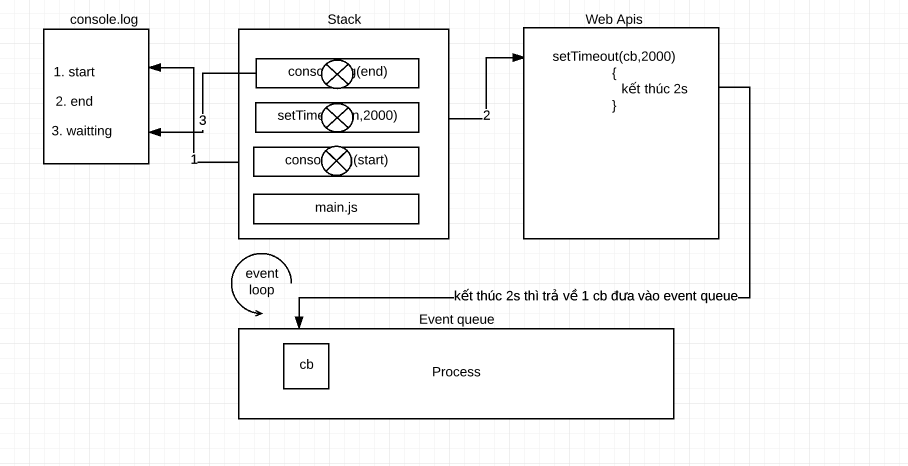
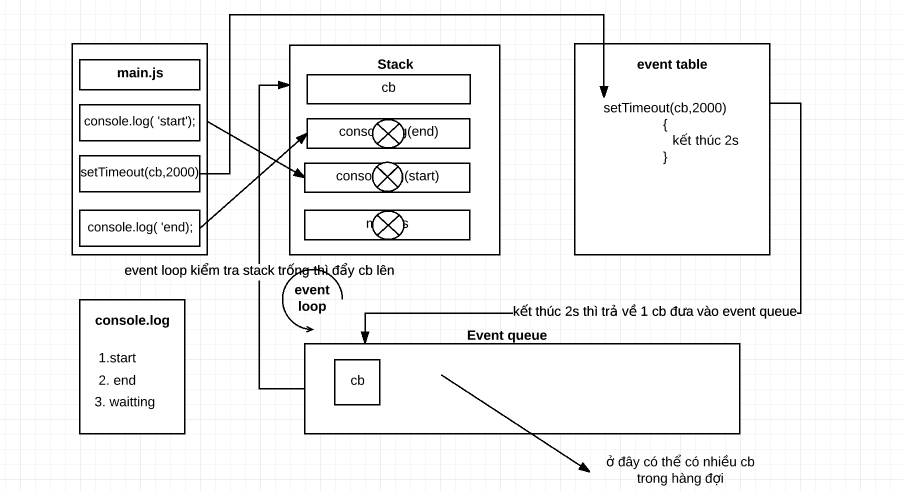
update

diff --git a/README.md b/README.md
@@ -66,9 +66,46 @@ console.log(new Date().toLocaleTimeString()+ ' ' + 'start');
        9:47:20 AM end
        9:47:22 AM waitting...   
 ```
-- Ta thấy kết quả tương tự như ở trên và lý do được giải thích như sau:
+
 * Trạng thái hoạt động
     ![Image](s.png)
+- Nhìn vào sơ đồ ta ta thấy có các thành phần như sau:
+1. Stack: là cấu trúc kiểu ngăn xếp chứa các khối lệnh được chạy
+2. Nơi đăng kí các sự kiện
+3. Event queue là hàng đợi chứa các câu lệnh được trả về sau khi hoàn thành một tác vụ nào đó(như các setTimeout, promise, các sự kiện click ...)
+4. Event loop lặp liên tục kiểm tra xem stack có rỗng không nếu rỗng sẽ đẩy các lệnh dưới event queue lên.
+- Với đoạn code trên được giải thích như sau:
+- Đoạn code trong chương trình chạy tuần tự từ đầu đến cuối
+- Đầu tiên nó gọi hàm main() trong hàm main() gặp câu lệnh 
+    "console.log('start')" với câu lệnh này nó được đưa vào trong stack được lấy ra ngay và thực thi luôn câu lệnh log('start') trong stack lúc này chỉ có hàm main().
+- Tiếp theo nó gặp hàm setTimeout(cb,2000) nhưng hàm này không được đưa vào stack mà được đưa sang event table và trong quá trình chờ kết thúc 2s thì nó gọi luôn câu lệnh tiếp theo là "console.log('end')" lệnh này được đưa vào stack và nó bị lấy ra và thực hiện ngay => log ra màn hình "end"
+- Sau khi kết thúc 2s thì setTimeout(cb,2000) trả về 1 hàm cb và hàm này được đẩy xuống event queue tại đây nó được event loop kiểm tra xem hàng đợi có rỗng không lúc này hàng đợi đang rỗng nên nó sẽ đẩy hàm cb từ dưới Event queue lên Stack và thực thi câu lệnh in đoạn text "waitting..."
+- Giả sử ta có một đoạn code khác như sau:
+```javascript
+    console.log(new Date().toLocaleTimeString()+ ' ' +'start')
+setTimeout(function () {
+    console.log(new Date().toLocaleTimeString()+ ' ' +'there1')
+},1000)
+setTimeout(function () {
+    console.log(new Date().toLocaleTimeString()+ ' ' +'there2')
+}, 2000);
+setTimeout(function () {
+    console.log(new Date().toLocaleTimeString()+ ' ' +'there3')
+}, 1000)
+console.log(new Date().toLocaleTimeString()+ ' ' +'end')
+
+- kết quả in ra như sau:
+    11:20:44 AM start
+    11:20:44 AM end
+    11:20:45 AM there1
+    11:20:45 AM there3
+    11:20:46 AM there2
+
+```
+- Như vậy 2 câu lệnh log vẫn thực được thực thi trước còn lại 3 hàm setTimeout() sẽ lần lượt được đưa vào event table chương trình được thực thi rất nhanh nên ta cảm nhận cả 3 hàm setTimeout(1000),setTimeout(2000),setTimeout(1000) được thực hiện tại cùng 1 thời điểm trong event table và ở đây có 2 hàm setTimeout(1000) nhưng hàm đầu tiên vào trước nên nó sẽ xong trước rồi đẩy xuống event queue trước và hàm setTimeout(1000) thứ 2 do thứ tự sau nên nó sẽ đứng sát hàm setTimeout(1000) thứ nhất chính vì như vậy mới có kết quả như trên
+
+
+
 
 
 
